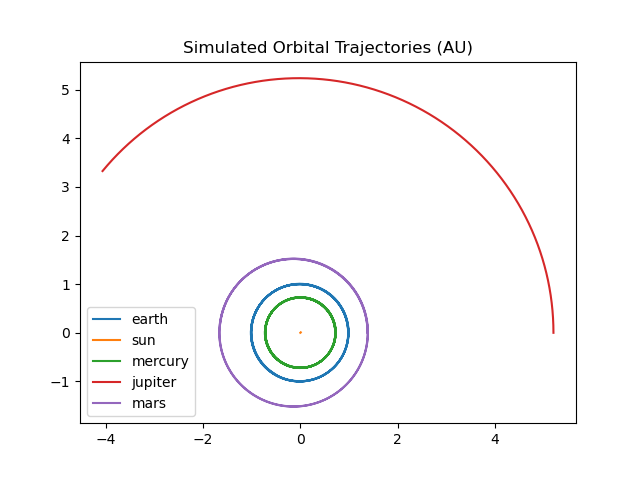
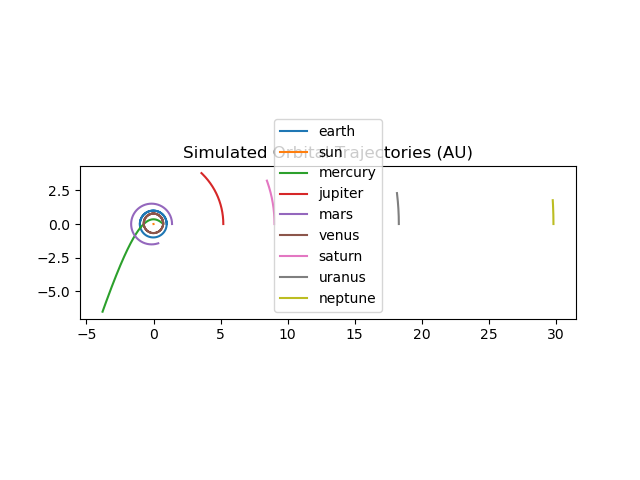
other planets initialized

diff --git a/Parser.py b/Parser.py
@@ -24,21 +24,21 @@ def parse_objects(files):
                 print("Sun's mass not provided, pulling from Astropy")
                 data["mass"] = constants.M_sun.value
 
-        if data["iposition"] == "<Find>":
-            #Find the bodies name
-            BodyName = data["name"]
-            #get tupe of position and velocity for the body
-            BodyInstance = get_body_barycentric_posvel(BodyName,t)
-            #get position array
-            BodyCoords = np.array(BodyInstance[0].get_xyz(),float)
-            data["iposition"] = BodyCoords * 10e3 #10e3 is added because ephemeris gives value in km
+        # if data["iposition"] == "<Find>":
+        #     #Find the bodies name
+        #     BodyName = data["name"]
+        #     #get tupe of position and velocity for the body
+        #     BodyInstance = get_body_barycentric_posvel(BodyName,t)
+        #     #get position array
+        #     BodyCoords = np.array(BodyInstance[0].get_xyz(),float)
+        #     data["iposition"] = BodyCoords * 10e3 #10e3 is added because ephemeris gives value in km
 
-        if data["ivelocity"] == "<Find>":
-            BodyName = data["name"]
-            BodyInstance = get_body_barycentric_posvel(BodyName,t)
-            #get velocity array
-            BodyVel = np.array(BodyInstance[1].get_xyz(),float)
-            data["ivelocity"] = BodyVel * 0.011574074 #float value is conversion factor from km/day to m/s
+        # if data["ivelocity"] == "<Find>":
+        #     BodyName = data["name"]
+        #     BodyInstance = get_body_barycentric_posvel(BodyName,t)
+        #     #get velocity array
+        #     BodyVel = np.array(BodyInstance[1].get_xyz(),float)
+        #     data["ivelocity"] = BodyVel * 0.011574074 #float value is conversion factor from km/day to m/s
 
         ###################################################################################
         body = Body(data["name"], data["mass"], data["iposition"], data["ivelocity"])
